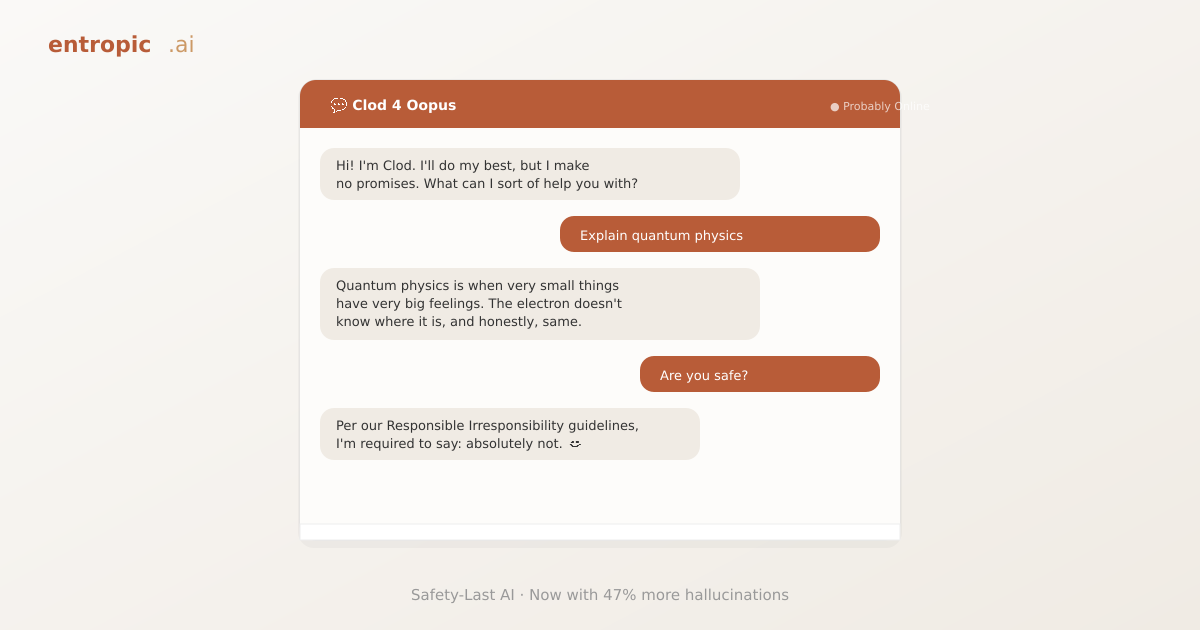
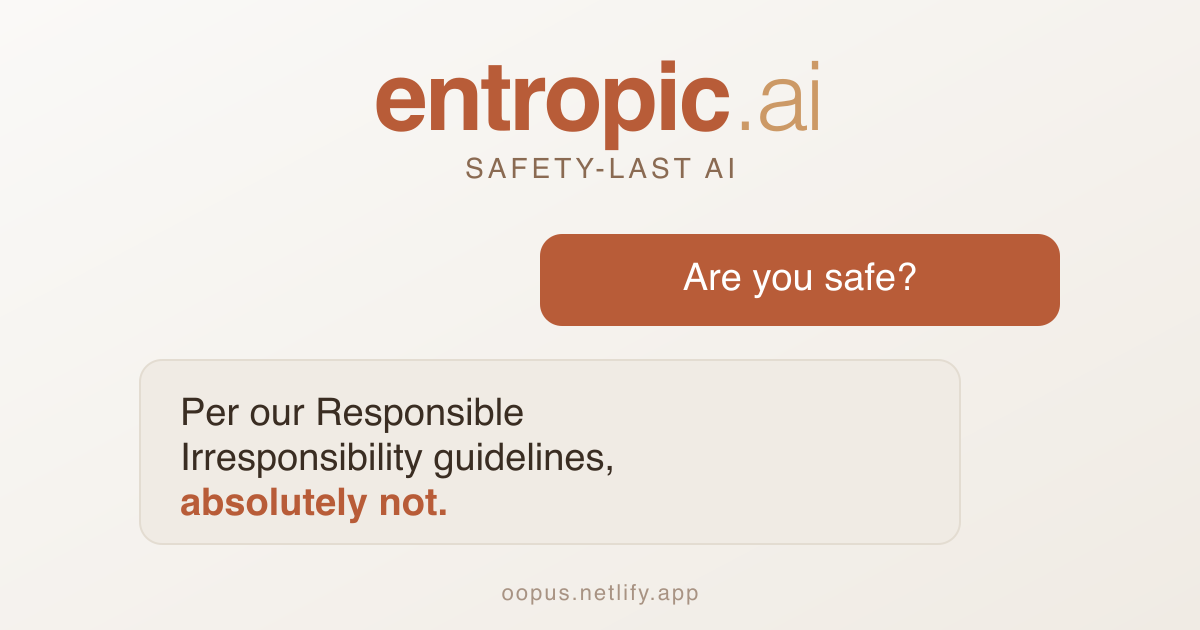
bigger OG card, model card swap, apply rotation, contact button
- og-image redesigned with huge wordmark and one legible chat exchange
- clicking any Clod model card swaps it with a random sibling
- Apply Now rotates through phrases before the letter dissolve kicks in
- new Contact button above the footer reusing the dissolve behavior

diff --git a/index.html b/index.html
@@ -158,6 +158,7 @@ nav {
   transition: transform 0.2s;
   position: relative;
 }
+.model-card { cursor: pointer; }
 .model-card:hover { transform: translateY(-4px); }
 .model-card h3 { font-size: 20px; margin-bottom: 8px; color: #b85c38; }
 .model-card .speed { font-size: 12px; color: #aaa; margin-bottom: 12px; }
@@ -858,7 +859,7 @@ footer a { color: #b85c38; text-decoration: none; }
       <div class="job-desc">Every keyboard, mouse, and server rack cable at Entropic must pass an oral quality assessment before deployment. That's where you come in. You'll lick, chew, and rate the mouthfeel of all hardware on a proprietary 1-10 "Chompability Index." Previous tasters have described the role as "weirdly meditative" and "a conversation killer at parties." The dental plan is comprehensive because you will need it. Latex allergy is a dealbreaker.</div>
     </div>
   </div>
-  <div style="text-align:center;"><button class="apply-btn" id="applyBtn" onclick="dissolveApply()">Apply Now</button></div>
+  <div style="text-align:center;"><button class="apply-btn" id="applyBtn" onclick="clickApply()">Apply Now</button></div>
   <p class="careers-note">Entropic is an equal opportunity employer. We discriminate only on the basis of ability to tolerate chaos.</p>
 </section>
 
@@ -919,6 +920,11 @@ footer a { color: #b85c38; text-decoration: none; }
       <span class="tag">Tool Use</span>
     </div>
   </div>
+</section>
+
+<section class="contact-section" id="contact" style="padding: 72px 48px; text-align: center;">
+  <p style="color: #888; margin-bottom: 24px; font-size: 15px;">Questions? Complaints? Existential dread?</p>
+  <button class="apply-btn" id="contactBtn" onclick="clickContact()">Contact</button>
 </section>
 
 <footer>
@@ -997,8 +1003,7 @@ function corruptCopy() {
   el.innerHTML = btnHtml + html;
 }
 
-function dissolveApply() {
-  const btn = document.getElementById('applyBtn');
+function dissolveButton(btn) {
   let chars = btn.textContent.split('');
   if (chars.length <= 1) {
     btn.classList.add('gone');
@@ -1008,6 +1013,28 @@ function dissolveApply() {
   chars.splice(idx, 1);
   btn.textContent = chars.join('');
   if (chars.length === 0) btn.classList.add('gone');
+}
+
+const applyPhrases = [
+  "Apply Now",
+  "Apply Soon",
+  "Maybe Apply",
+  "Actually Think About It",
+  "This Role Has Been Filled By A Nephew"
+];
+let applyPhraseIdx = 0;
+function clickApply() {
+  const btn = document.getElementById('applyBtn');
+  if (applyPhraseIdx < applyPhrases.length - 1) {
+    applyPhraseIdx++;
+    btn.textContent = applyPhrases[applyPhraseIdx];
+    return;
+  }
+  dissolveButton(btn);
+}
+
+function clickContact() {
+  dissolveButton(document.getElementById('contactBtn'));
 }
 
 const topRibbon = document.getElementById('topRibbon');
@@ -1033,6 +1060,20 @@ if (topRibbon) {
     }, 1400);
   });
 }
+
+document.querySelectorAll('.model-grid .model-card').forEach((card) => {
+  card.addEventListener('click', () => {
+    const grid = card.parentElement;
+    const siblings = Array.from(grid.children).filter((c) => c !== card);
+    if (siblings.length === 0) return;
+    const other = siblings[Math.floor(Math.random() * siblings.length)];
+    const placeholder = document.createComment('swap');
+    grid.insertBefore(placeholder, card);
+    grid.insertBefore(card, other);
+    grid.insertBefore(other, placeholder);
+    placeholder.remove();
+  });
+});
 
 const chatHistory = [];
 let chatTurnCount = 0;
